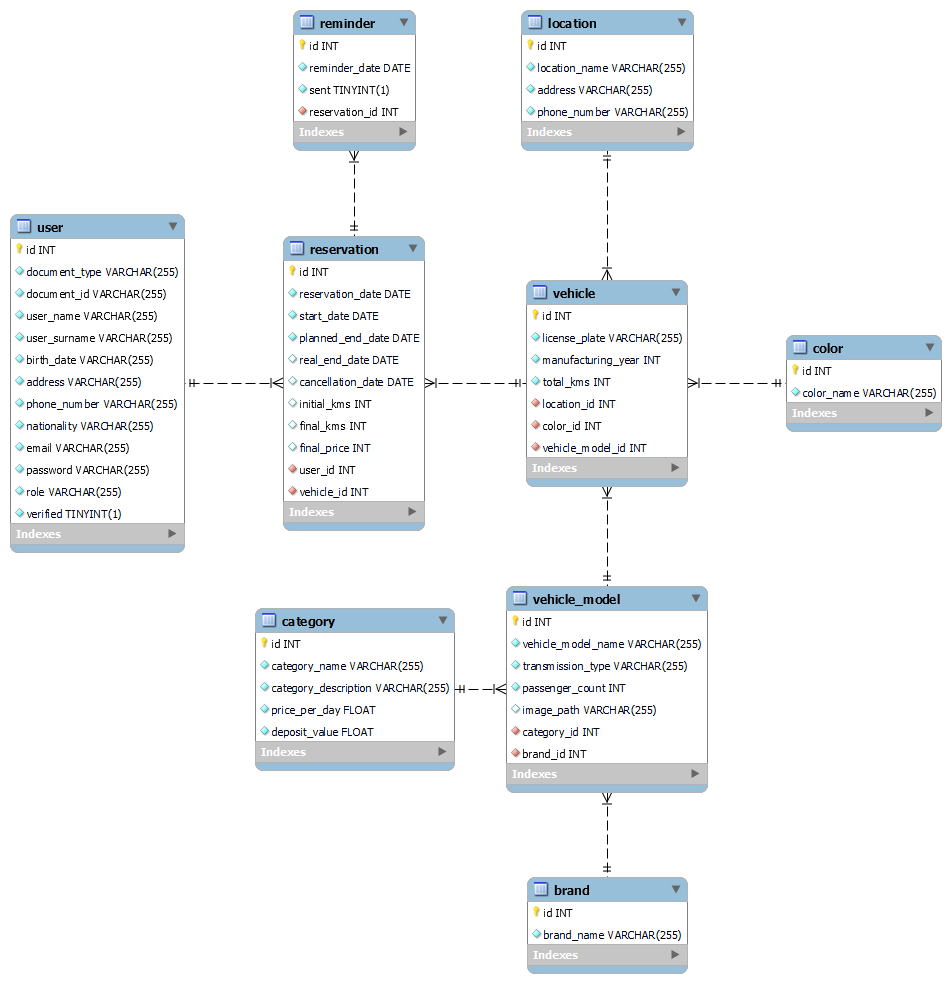
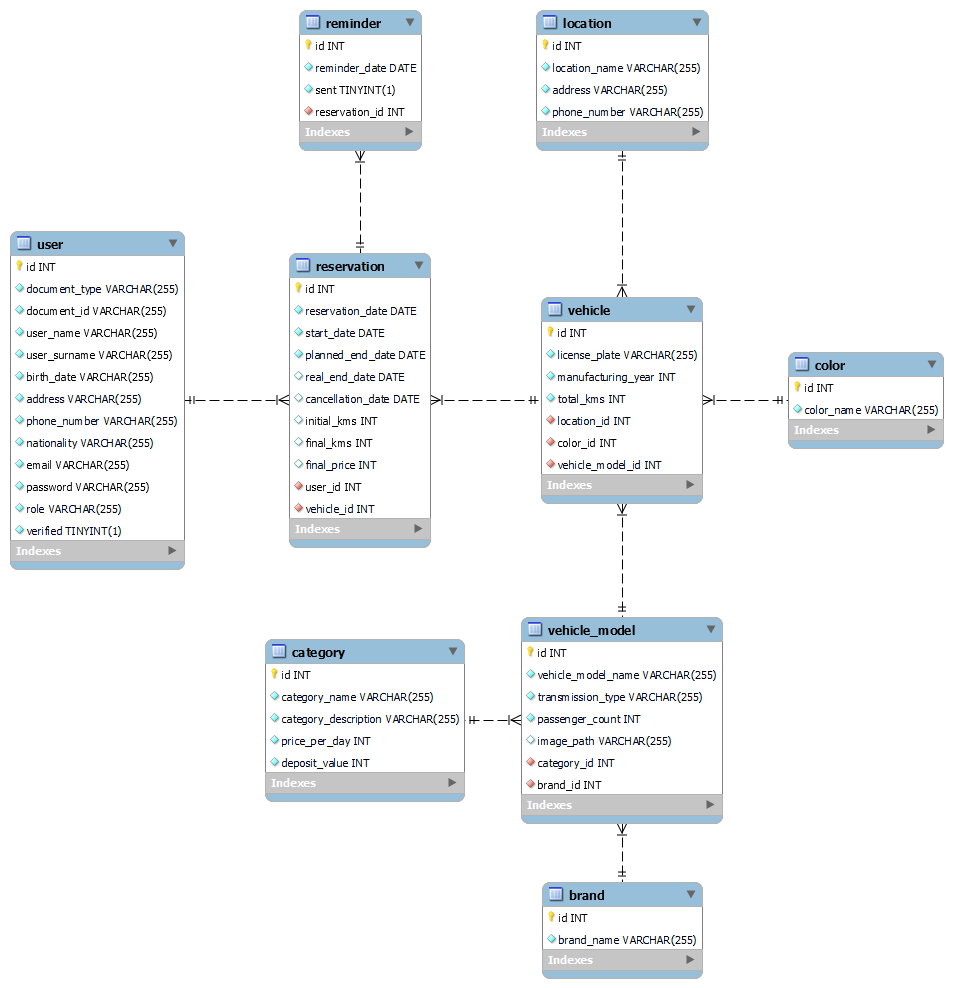
Modifico el tipo de los campos de precios de la tabla 'category' de la base de datos a INT (para que sea acorde a como están manejados en el sistema)
En conjunto con eso:
 - Agrego validaciones en los formularios que contienen campos de 'type=number' para corroborar que lo ingresado sea un número entero (formularios de Categorías, Vehículos, Modelos, y en el modal genérico cuando se realiza el Check-Out de una Reserva)
 - Modifico el middleware sanitizedInput del backend para que permita ingresar 0 en los campos numéricos (de modo de poder registrar un vehículo 0 KM)
 - Modifico la imagen del modelo de datos y el archivo .mysql con datos de prueba, para que se correspondan con los cambios realizados

Además:
 - Vuelvo a programar los recordatorios de reservas cada 10 minutos (en lugar de cada 1 minuto), ya que fue modificado por error en el commit anterior

diff --git a/frontend/src/app/core/category/components/category-form/category-form.component.html b/frontend/src/app/core/category/components/category-form/category-form.component.html
@@ -87,13 +87,21 @@
           <mat-error *ngIf="categoryForm.get('pricePerDay')?.errors?.min">
             El precio por día debe ser mayor o igual a 1.
           </mat-error>
+          <mat-error
+            *ngIf="
+              categoryForm.get('pricePerDay')?.errors?.pattern &&
+              !categoryForm.get('pricePerDay')?.errors?.min
+            "
+          >
+            El precio por día debe ser un número entero.
+          </mat-error>
         </mat-form-field>
         <mat-form-field
           class="input-box"
           appearance="outline"
           hideRequiredMarker="true"
         >
-          <mat-label>Valor depósito</mat-label>
+          <mat-label>Valor de depósito</mat-label>
           <input
             matInput
             id="depositValue"
@@ -107,6 +115,14 @@
           </mat-error>
           <mat-error *ngIf="categoryForm.get('depositValue')?.errors?.min">
             El valor de depósito debe ser mayor o igual a 1.
+          </mat-error>
+          <mat-error
+            *ngIf="
+              categoryForm.get('depositValue')?.errors?.pattern &&
+              !categoryForm.get('depositValue')?.errors?.min
+            "
+          >
+            El valor de depósito debe ser un número entero.
           </mat-error>
         </mat-form-field>
       </div>

diff --git a/frontend/src/app/core/vehicle/components/vehicle-form/vehicle-form.component.html b/frontend/src/app/core/vehicle/components/vehicle-form/vehicle-form.component.html
@@ -89,6 +89,15 @@
           <mat-error *ngIf="vehicleForm.get('manufacturingYear')?.errors?.max">
             El año de fabricación no puede ser del futuro.
           </mat-error>
+          <mat-error
+            *ngIf="
+              vehicleForm.get('manufacturingYear')?.errors?.pattern &&
+              !vehicleForm.get('manufacturingYear')?.errors?.min &&
+              !vehicleForm.get('manufacturingYear')?.errors?.max
+            "
+          >
+            El año de fabricación debe ser un número entero.
+          </mat-error>
         </mat-form-field>
         <mat-form-field
           class="input-box"
@@ -110,6 +119,14 @@
           </mat-error>
           <mat-error *ngIf="vehicleForm.get('totalKms')?.errors?.min">
             Los km recorridos no pueden ser negativos.
+          </mat-error>
+          <mat-error
+            *ngIf="
+              vehicleForm.get('totalKms')?.errors?.pattern &&
+              !vehicleForm.get('totalKms')?.errors?.min
+            "
+          >
+            Los km recorridos deben ser un número entero.
           </mat-error>
         </mat-form-field>
         <mat-form-field

diff --git a/frontend/src/app/core/vehicle-model/components/vehicle-model-form/vehicle-model-form.component.html b/frontend/src/app/core/vehicle-model/components/vehicle-model-form/vehicle-model-form.component.html
@@ -90,7 +90,7 @@
             type="number"
             formControlName="passengerCount"
             placeholder=""
-            min="1"
+            min="2"
           />
           <mat-error
             *ngIf="vehicleModelForm.get('passengerCount')?.errors?.required"
@@ -100,7 +100,15 @@
           <mat-error
             *ngIf="vehicleModelForm.get('passengerCount')?.errors?.min"
           >
-            La cantidad de pasajeros debe ser mayor o igual a 1.
+            La cantidad de pasajeros debe ser mayor o igual a 2.
+          </mat-error>
+          <mat-error
+            *ngIf="
+              vehicleModelForm.get('passengerCount')?.errors?.pattern &&
+              !vehicleModelForm.get('passengerCount')?.errors?.min
+            "
+          >
+            La cantidad de pasajeros debe ser un número entero.
           </mat-error>
         </mat-form-field>
         <mat-form-field

diff --git a/frontend/src/app/core/vehicle/components/vehicle-form/vehicle-form.component.ts b/frontend/src/app/core/vehicle/components/vehicle-form/vehicle-form.component.ts
@@ -89,8 +89,13 @@ export class VehicleFormComponent implements OnInit {
         Validators.required,
         Validators.min(1900),
         Validators.max(new Date().getFullYear()),
+        Validators.pattern(/^\d+$/),
       ]),
-      totalKms: new FormControl('', [Validators.required, Validators.min(0)]),
+      totalKms: new FormControl('', [
+        Validators.required,
+        Validators.min(0),
+        Validators.pattern(/^\d+$/),
+      ]),
       vehicleModel: new FormControl('', [Validators.required]),
       color: new FormControl('', [Validators.required]),
       location: new FormControl('', [Validators.required]),

diff --git a/frontend/src/app/shared/components/generic-dialog/generic-dialog.component.html b/frontend/src/app/shared/components/generic-dialog/generic-dialog.component.html
@@ -59,6 +59,14 @@
         <mat-error *ngIf="checkOutForm.get('finalKms')?.errors?.min">
           El kilometraje debe ser mayor a {{ data.initialKms }}.
         </mat-error>
+        <mat-error
+          *ngIf="
+            checkOutForm.get('finalKms')?.errors?.pattern &&
+            !checkOutForm.get('finalKms')?.errors?.min
+          "
+        >
+          El kilometraje debe ser un número entero.
+        </mat-error>
       </mat-form-field>
       <div class="input-toggle-box mb-5">
         <p class="text m-0">Devolver depósito:</p>

diff --git a/frontend/src/app/core/vehicle-model/components/vehicle-model-form/vehicle-model-form.component.ts b/frontend/src/app/core/vehicle-model/components/vehicle-model-form/vehicle-model-form.component.ts
@@ -86,7 +86,8 @@ export class VehicleModelFormComponent implements OnInit {
       transmissionType: new FormControl('', [Validators.required]),
       passengerCount: new FormControl('', [
         Validators.required,
-        Validators.min(1),
+        Validators.min(2),
+        Validators.pattern(/^\d+$/),
       ]),
       category: new FormControl('', [Validators.required]),
       brand: new FormControl('', [Validators.required]),

diff --git a/backend/src/shared/services/schedule.service.ts b/backend/src/shared/services/schedule.service.ts
@@ -87,8 +87,8 @@ export class ScheduleService {
   }
 
   static async initializeScheduler() {
-    console.log('Scheduler initialized:\n - Frequency (Every minute)\n');
-    cron.schedule('* * * * *', async () => {
+    console.log('Scheduler initialized:\n - Frequency (Every 10 minutes)\n');
+    cron.schedule('*/10 * * * *', async () => {
       try {
         await ScheduleService.sendPendingReminders();
       } catch (error) {

diff --git a/backend/src/shared/middlewares/sanitize-input.middleware.ts b/backend/src/shared/middlewares/sanitize-input.middleware.ts
@@ -99,7 +99,7 @@ export const sanitizeInput = (options: {
     if (numeric) {
       for (const field of numeric) {
         const value = req.body.sanitizedInput[field];
-        if (value !== undefined && (isNaN(value) || value < 1)) {
+        if (value !== undefined && (isNaN(value) || value < 0)) {
           return res.status(400).json({
             message: `El campo "${field}" debe ser un número positivo`,
           });

diff --git a/backend/src/core/category/category.entity.ts b/backend/src/core/category/category.entity.ts
@@ -19,10 +19,10 @@ export class Category extends BaseEntity {
   @Property({ nullable: false })
   categoryDescription!: string;
 
-  @Property({ type: 'float', nullable: false })
+  @Property({ nullable: false })
   pricePerDay!: number;
 
-  @Property({ type: 'float', nullable: false })
+  @Property({ nullable: false })
   depositValue!: number;
 
   @OneToMany(() => VehicleModel, (vehicleModel) => vehicleModel.category, {

diff --git a/frontend/src/app/core/category/components/category-form/category-form.component.ts b/frontend/src/app/core/category/components/category-form/category-form.component.ts
@@ -72,10 +72,12 @@ export class CategoryFormComponent implements OnInit {
       pricePerDay: new FormControl('', [
         Validators.required,
         Validators.min(1),
+        Validators.pattern(/^\d+$/),
       ]),
       depositValue: new FormControl('', [
         Validators.required,
         Validators.min(1),
+        Validators.pattern(/^\d+$/),
       ]),
     },
     { updateOn: 'blur' }

diff --git a/frontend/src/app/shared/components/generic-dialog/generic-dialog.component.ts b/frontend/src/app/shared/components/generic-dialog/generic-dialog.component.ts
@@ -57,6 +57,7 @@ export class GenericDialogComponent implements OnDestroy {
       finalKms: new FormControl(this.data.initialKms, [
         Validators.required,
         Validators.min((this.data.initialKms ?? 0) + 1),
+        Validators.pattern(/^\d+$/),
       ]),
       returnDeposit: new FormControl(true, [Validators.required]),
     },

diff --git a/README.md b/README.md
@@ -60,7 +60,7 @@ cd frontend
 
 **Importá datos pre-cargados desde el siguiente archivo .mysql, para facilitar la prueba de la aplicación:**
 
-- [Base de Datos](https://drive.google.com/file/d/1yTwhIJxGQsc-7Be9Q_Hmqmft0WOD2jTH/view?usp=sharing)
+- [Base de Datos](https://drive.google.com/file/d/12hKOOJdNTaggBVWNVtNBo-ZBNhTbuq8V/view)
 
 ---
 
